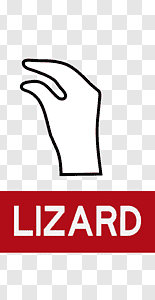
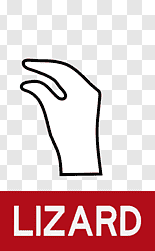
Crop out unwanted space in images

diff --git a/assets/js/script.js b/assets/js/script.js
@@ -18,11 +18,12 @@ function playGame(playerChoice) {
     playerImage.src =`assets/images/${choices[playerChoice]}.png`;
     computerImage.alt = choices[computerChoice];    
 
-    let computerChoice = Math.floor(Math.random() *3);
+    let computerChoice = Math.floor(Math.random() * choices.length);
 
     computerImage.src = `assets/images/${choices[computerChoice]}.png`;
     computerImage.alt = choices[computerChoice];
 
+    
     let result = checkWinner(choices[computerChoice], choices[playerChoice]);
 
     updateScores(result);
